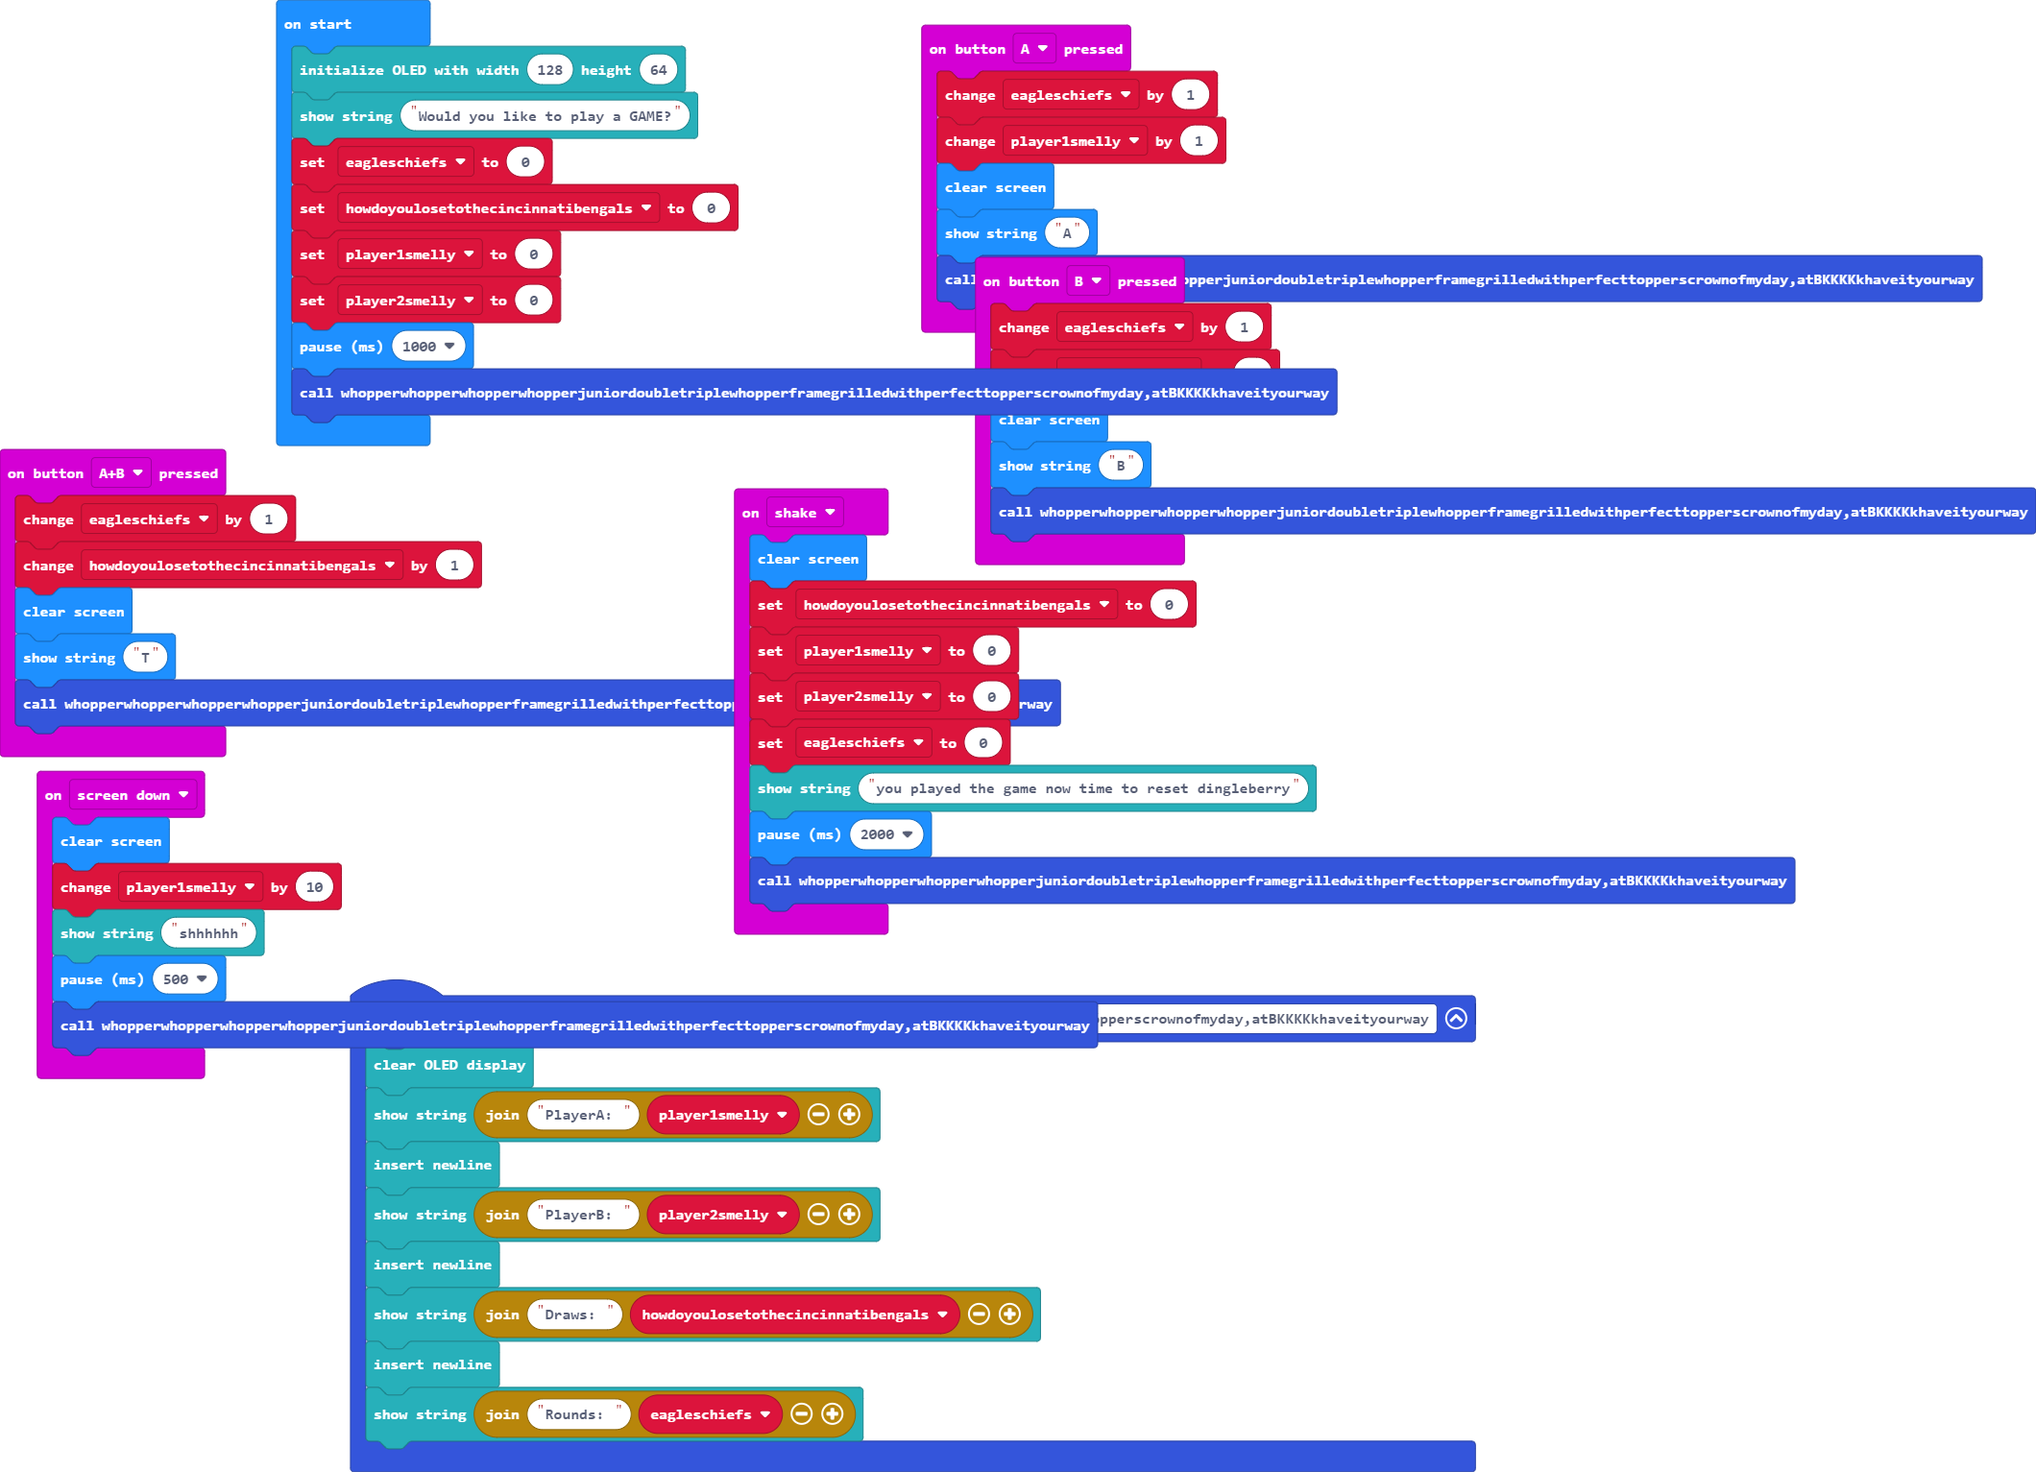
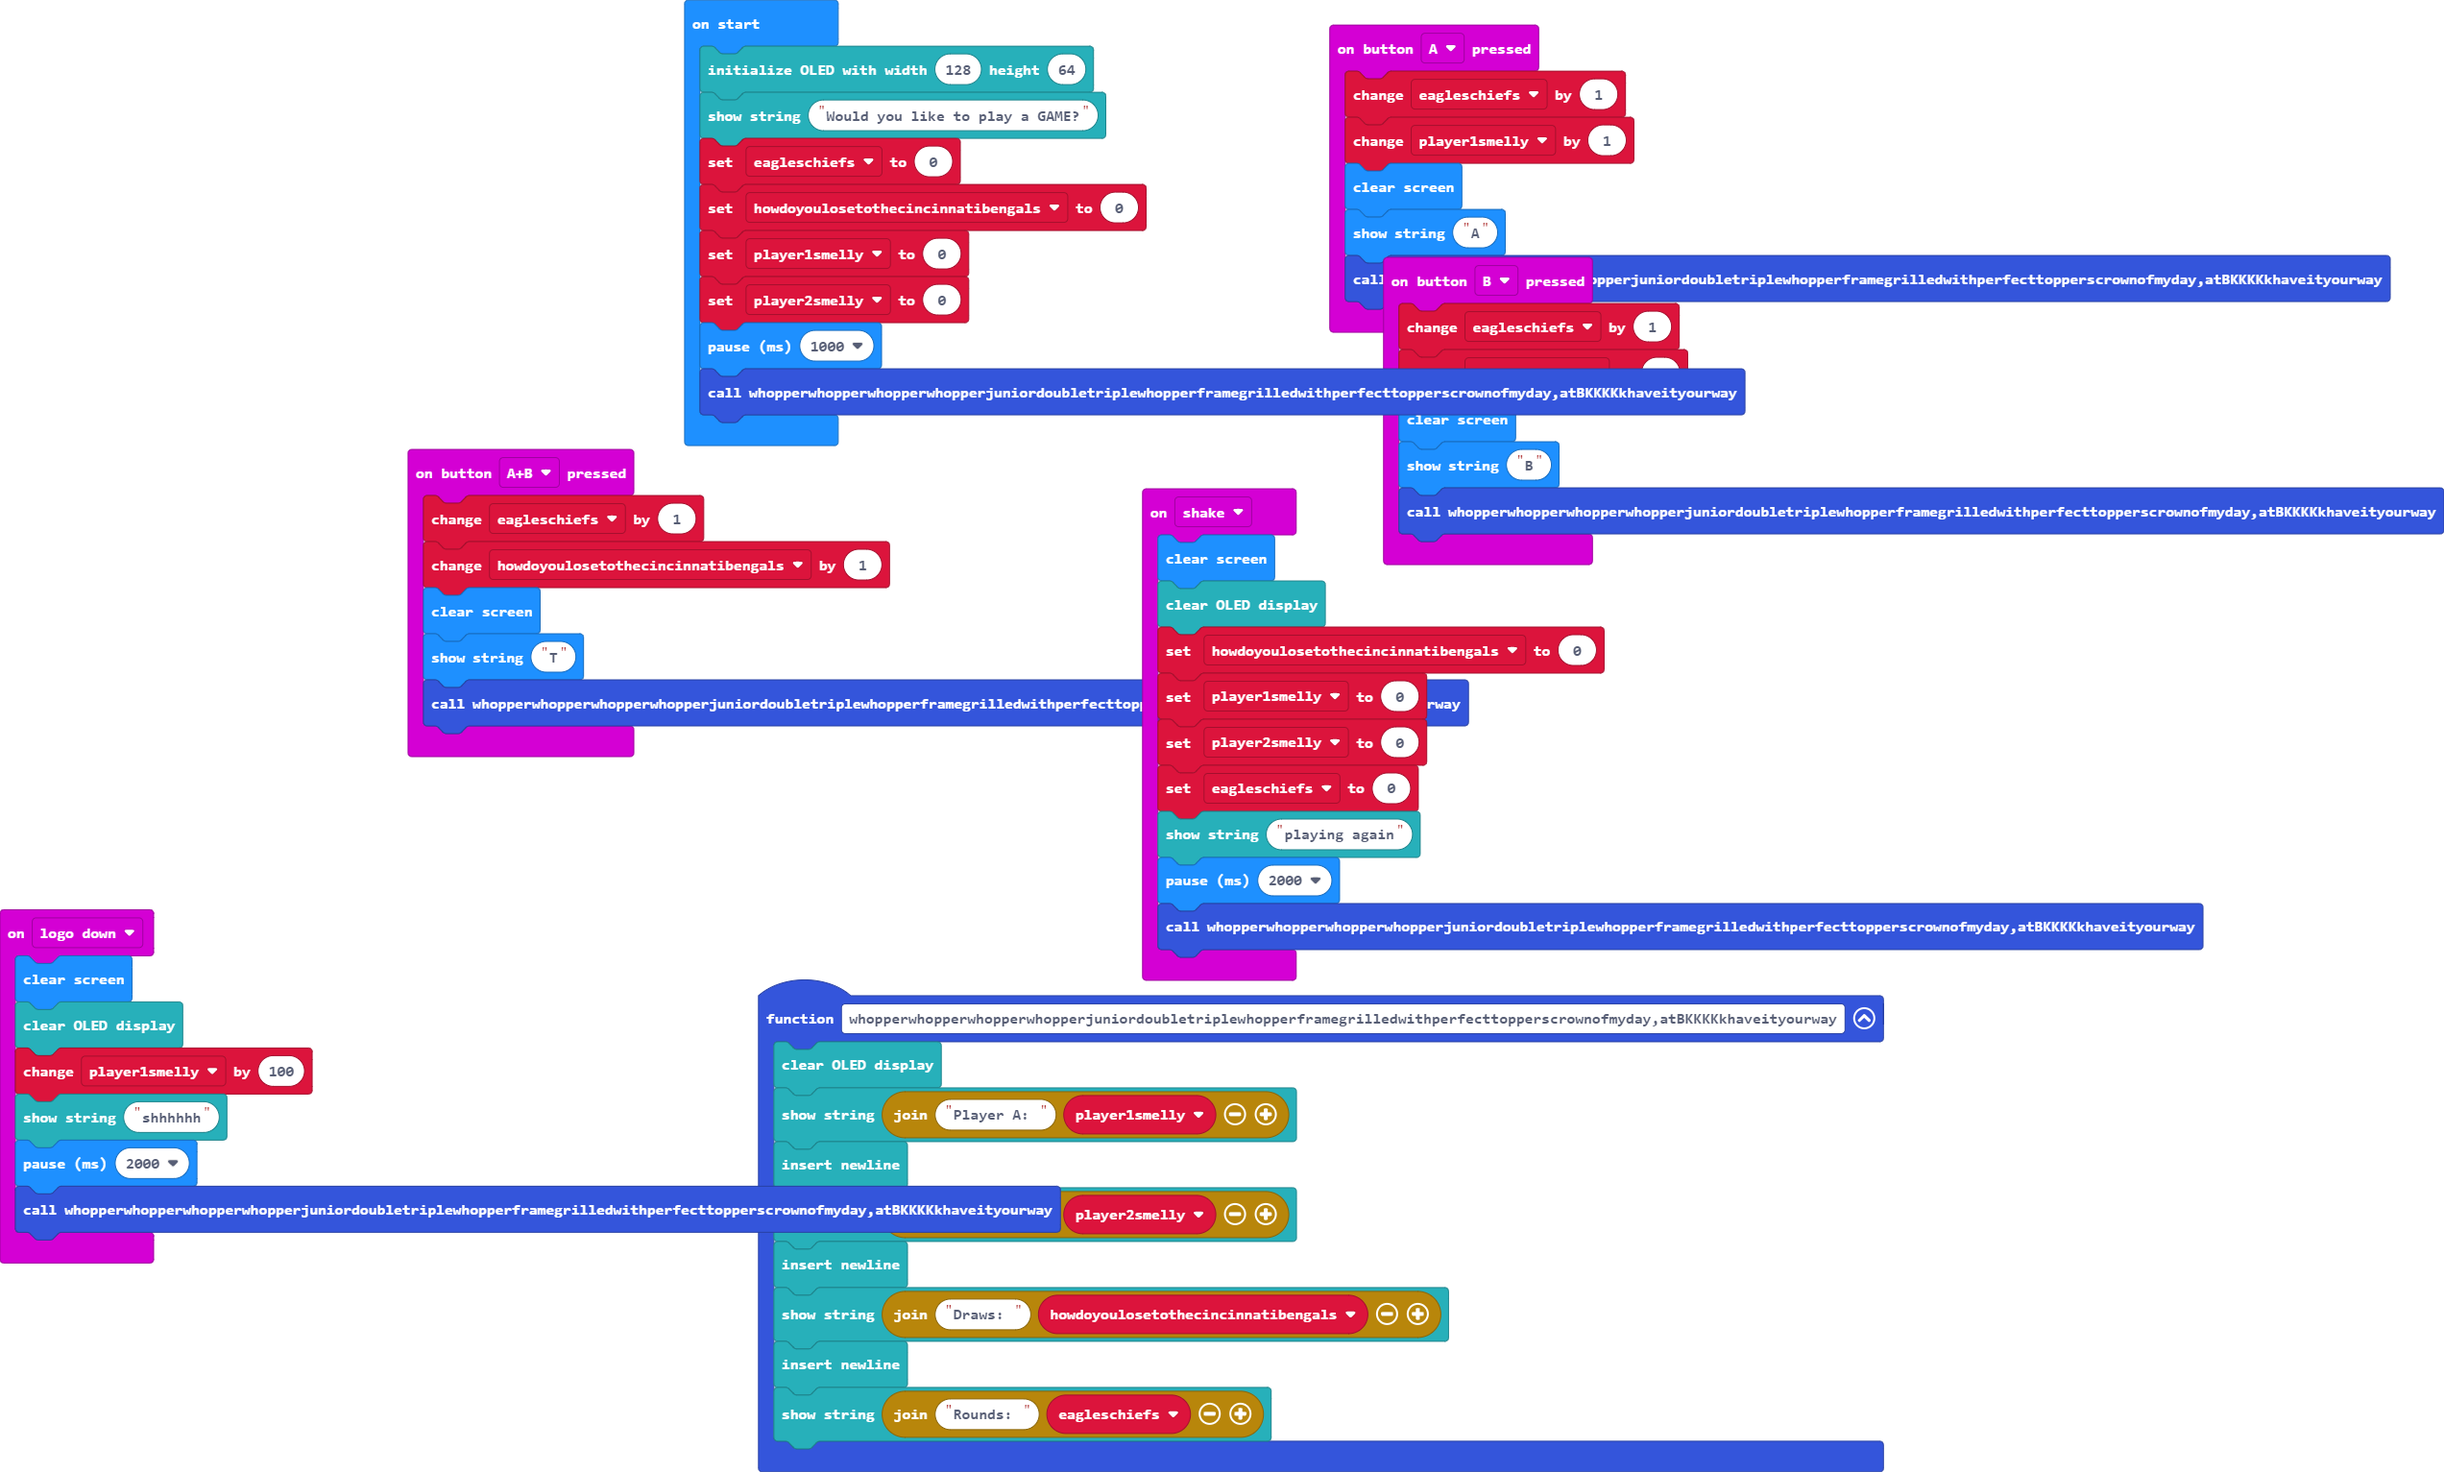
Update main.blocks, main.ts

diff --git a/main.ts b/main.ts
@@ -5,13 +5,6 @@ input.onButtonPressed(Button.A, function () {
     basic.showString("A")
     whopperwhopperwhopperwhopperjuniordoubletriplewhopperframegrilledwithperfecttopperscrownofmydayatBKKKKkhaveityourway()
 })
-input.onGesture(Gesture.ScreenDown, function () {
-    basic.clearScreen()
-    player1smelly += 10
-    OLED.writeStringNewLine("shhhhhh")
-    basic.pause(500)
-    whopperwhopperwhopperwhopperjuniordoubletriplewhopperframegrilledwithperfecttopperscrownofmydayatBKKKKkhaveityourway()
-})
 input.onButtonPressed(Button.AB, function () {
     eagleschiefs += 1
     howdoyoulosetothecincinnatibengals += 1
@@ -28,19 +21,28 @@ input.onButtonPressed(Button.B, function () {
 })
 input.onGesture(Gesture.Shake, function () {
     basic.clearScreen()
+    OLED.clear()
     howdoyoulosetothecincinnatibengals = 0
     player1smelly = 0
     player2smelly = 0
     eagleschiefs = 0
-    OLED.writeStringNewLine("you played the game now time to reset dingleberry")
+    OLED.writeStringNewLine("playing again")
+    basic.pause(2000)
+    whopperwhopperwhopperwhopperjuniordoubletriplewhopperframegrilledwithperfecttopperscrownofmydayatBKKKKkhaveityourway()
+})
+input.onGesture(Gesture.LogoDown, function () {
+    basic.clearScreen()
+    OLED.clear()
+    player1smelly += 100
+    OLED.writeStringNewLine("shhhhhh")
     basic.pause(2000)
     whopperwhopperwhopperwhopperjuniordoubletriplewhopperframegrilledwithperfecttopperscrownofmydayatBKKKKkhaveityourway()
 })
 function whopperwhopperwhopperwhopperjuniordoubletriplewhopperframegrilledwithperfecttopperscrownofmydayatBKKKKkhaveityourway () {
     OLED.clear()
-    OLED.writeStringNewLine("PlayerA: " + player1smelly)
+    OLED.writeStringNewLine("Player A: " + player1smelly)
     OLED.newLine()
-    OLED.writeStringNewLine("PlayerB: " + player2smelly)
+    OLED.writeStringNewLine("Player B: " + player2smelly)
     OLED.newLine()
     OLED.writeStringNewLine("Draws: " + howdoyoulosetothecincinnatibengals)
     OLED.newLine()
